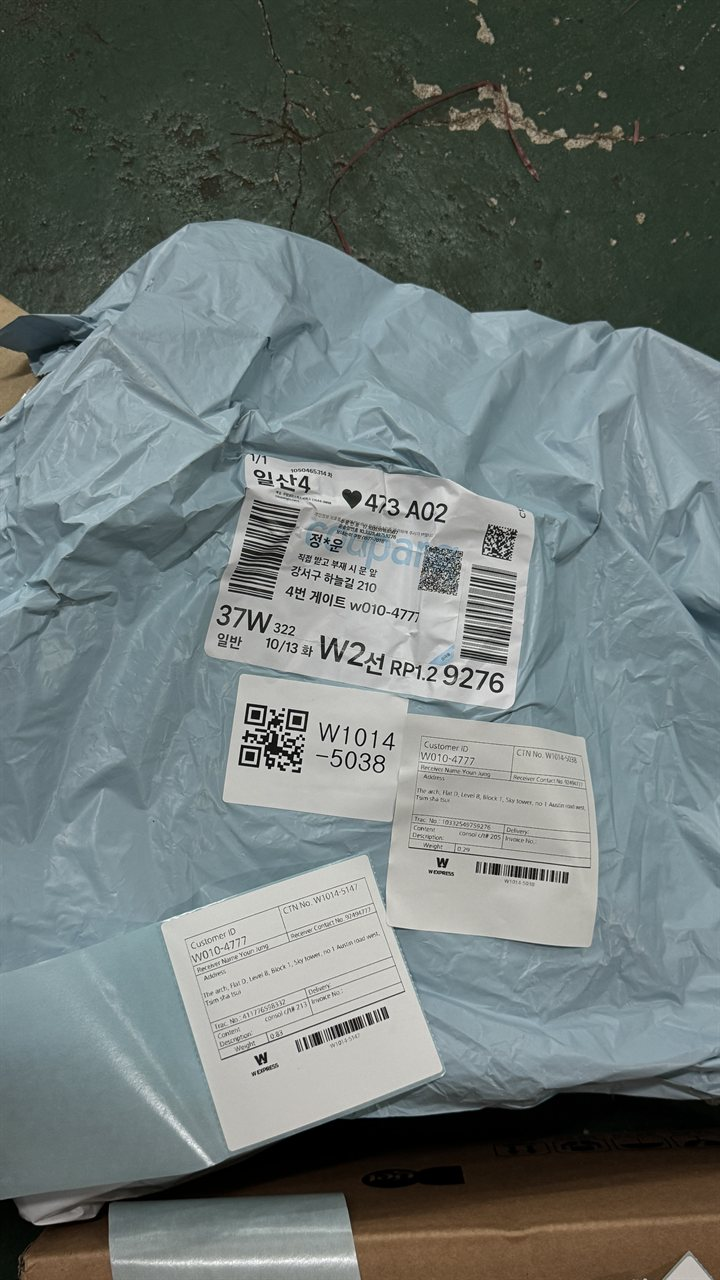
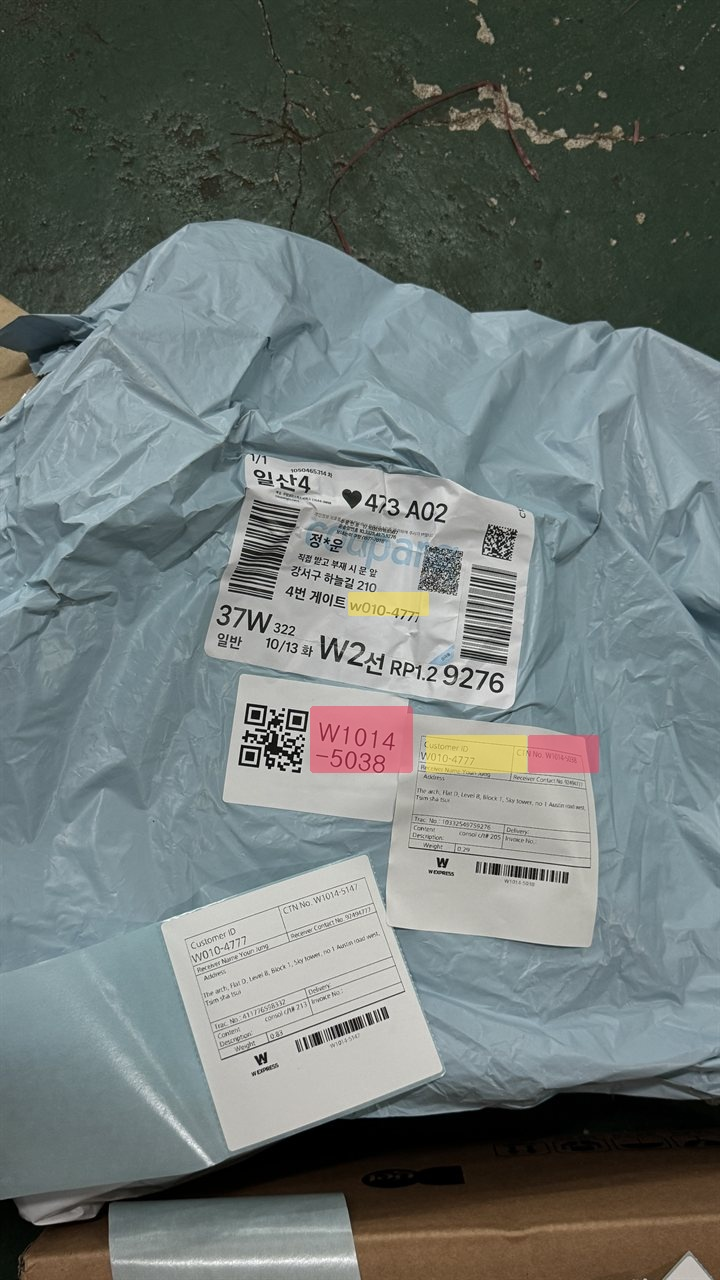
feat(express): highlight matching codes on Chapter 2 after-labeling photo

Changed region(s): [[0.4278, 0.5312, 0.8556, 0.625], [0.4889, 0.4375, 0.6111, 0.5]]

diff --git a/src/locales/ko.js b/src/locales/ko.js
@@ -508,7 +508,7 @@ export default {
               {
                 src: "/express/02-label-after.jpg",
                 title: "라벨 부착 후: 화물 ID 일치 라벨 스티커 부착 완료",
-                desc: "화물 ID(W1014-5038)가 일치하는 스티커를 겉면 QR 라벨 옆에 부착 완료한 모습"
+                desc: "고객 ID와 CTN NO가 일치하는 스티커를 포장지 빈 공간에 부착 완료한 모습"
               }
             ]
           },
